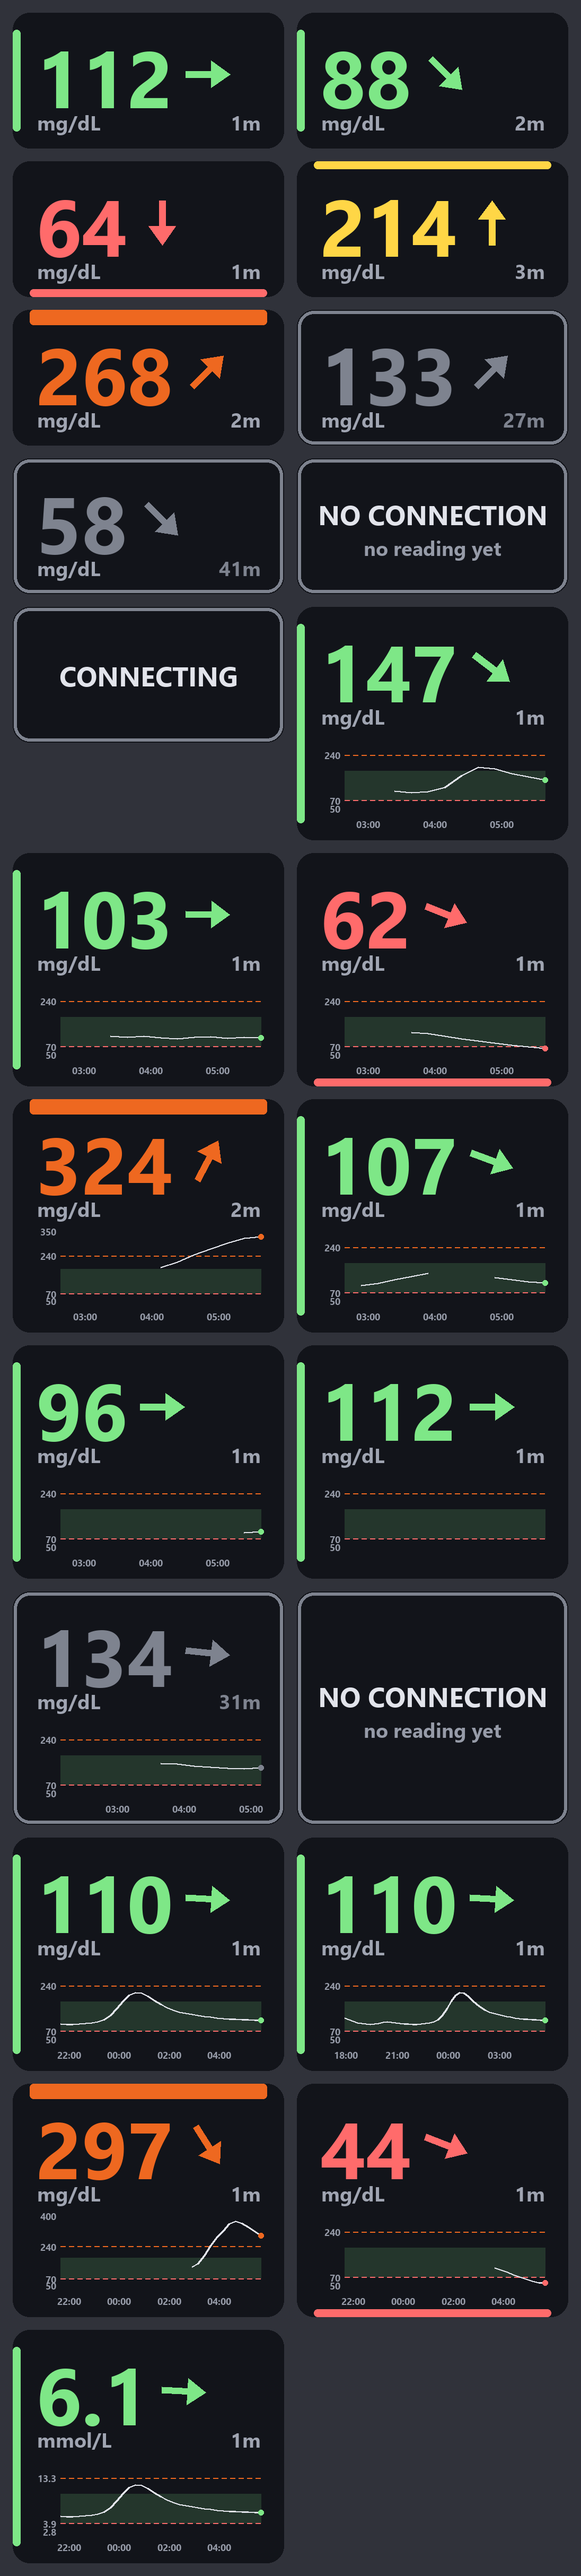
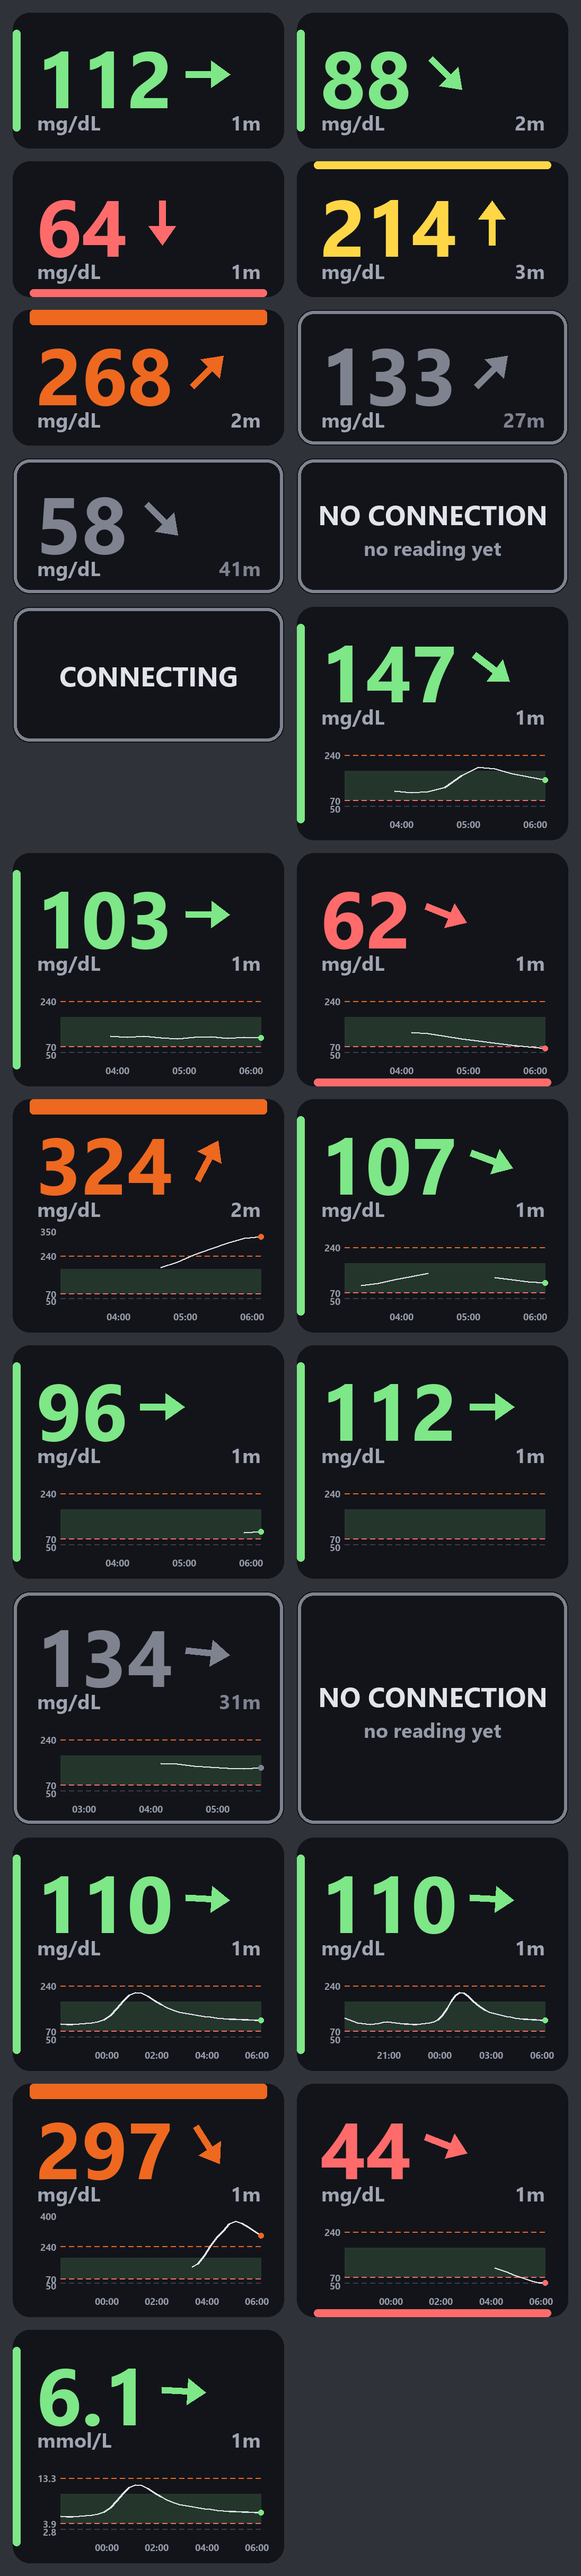
feat: join the trace across the publication lag, and rule the floor
**The break in front of the newest point was not a scanning gap.** One
response carries both the current measurement and the history, and they
are not equally fresh: measured against the live API just now,
`graphData`'s newest entry was timestamped 18 minutes before
`glucoseMeasurement` in the same body. NOTES.md has seen 30. That is the
service publishing a sample into the array late -- the reading sitting
at the end of the gap is the proof the sensor was reading throughout it
-- so past 30 minutes the general "do not draw what was not measured"
rule was breaking the line over data that had been measured.

It is joined now, for that one gap only, and only up to an hour. The
bound is there because a phone that really stopped scanning looks
identical from this end, and joining across an afternoon would draw a
straight line through one. Interior gaps are untouched.

**The floor gets a gridline**, in a colour quiet enough to be scenery:
it says where the scale starts, which is worth being able to see and
not worth noticing. It is the first of what will eventually be one
every AXIS_STEP_MGDL.

diff --git a/src/cgm/face/graph.py b/src/cgm/face/graph.py
@@ -23,7 +23,9 @@ obvious alternative lies:
     of that, because those are the two the band alone does not mark.
   - **The line breaks across gaps** rather than spanning them. A joined
     line over a stretch the sensor was not scanning draws data that was
-    never measured.
+    never measured. The newest point is the exception, because the gap
+    in front of it is the service publishing late rather than the sensor
+    not reading -- see LAST_GAP_MIN.
   - **The X axis is only as long as the data**, when asked for all of
     it. A window drawn wider than the history behind it is empty space
     that looks like a sensor that stopped rather than one that has not
@@ -54,6 +56,24 @@ from datetime import datetime, timedelta
 # number is repeated here rather than imported because cgm.face imports
 # nothing from cgm.core; tests/test_graph.py holds the two in step.
 MAX_GAP_MIN = 30.0
+
+# The exception to that rule, and it applies to the newest point only.
+#
+# One response carries both the current measurement and the history, but
+# they are not equally fresh: graphData's newest entry trails
+# glucoseMeasurement, by eighteen minutes when this was last measured
+# and by thirty in NOTES.md. That trailing distance is how long the
+# service takes to publish a sample into the array, not a stretch the
+# sensor was not scanning -- the reading at the end of it exists, which
+# is the proof it was scanning throughout. So the last point is joined
+# across a gap that would break the line anywhere else.
+#
+# Bounded, because the two cases do look alike from here. If the phone
+# really stopped scanning for hours, graphData stops and so does the
+# measurement, and joining across that would draw a straight line
+# through an afternoon nobody measured. An hour is well past any
+# publication lag seen and well short of a gap worth drawing.
+LAST_GAP_MIN = 60.0
 
 # The trace is deliberately not the status colour. The digits, the arrow
 # and the marker all say what the reading is *now*; colouring an hour of
@@ -94,11 +114,17 @@ AXIS_FLOOR_MGDL = 50.0
 # as the value of whatever the highest sample happened to be.
 AXIS_STEP_MGDL = 50.0
 
-# The dashed threshold lines. A dash long enough to read as a line and a
+# The dashed reference lines. A dash long enough to read as a line and a
 # gap wide enough that it does not read as a solid one.
 DASH_ON = 9
 DASH_OFF = 7
 DASH_WIDTH = 2
+
+# Gridlines: the floor for now, and eventually one every AXIS_STEP_MGDL.
+# Quiet enough to be scenery -- a scale you can measure against when you
+# look for it, and not something competing with the trace or with the
+# two lines that actually mean something.
+GRID_COLOR = (58, 62, 74)
 
 # What the time axis is allowed to step by, in minutes, smallest first.
 # The first one that fits the span in MAX_TIME_TICKS intervals wins, so
@@ -185,12 +211,23 @@ def recent(points, window_min: float, now: datetime) -> list:
     return [p for p in points if cutoff <= p.at <= now]
 
 
-def segments(points, max_gap_min: float = MAX_GAP_MIN) -> list[list]:
+def segments(
+    points,
+    max_gap_min: float = MAX_GAP_MIN,
+    last_gap_min: float = LAST_GAP_MIN,
+) -> list[list]:
     """Split a series wherever the sensor stopped reporting.
 
     Each returned run is a stretch that may be joined up. A run of one
     is legal and means a single measurement with nothing either side of
     it close enough to connect to.
+
+    The newest point is the exception. It is the current measurement,
+    folded into the series by `_parse_graph_data` because graphData
+    stops short of it, and the distance back to graphData's own newest
+    entry is publication lag rather than missing data -- see
+    LAST_GAP_MIN. It is joined across up to that much, and left stranded
+    beyond it.
     """
     runs: list[list] = []
     for point in points:
@@ -198,6 +235,14 @@ def segments(points, max_gap_min: float = MAX_GAP_MIN) -> list[list]:
             runs[-1].append(point)
         else:
             runs.append([point])
+
+    # Only ever one point can be stranded this way: it is the one the
+    # series was extended with, and everything before it came out of the
+    # same array at the same resolution.
+    if len(runs) > 1 and len(runs[-1]) == 1:
+        newest, previous = runs[-1][0], runs[-2][-1]
+        if (newest.at - previous.at).total_seconds() / 60 <= last_gap_min:
+            runs[-2].append(runs.pop()[0])
     return runs
 
 
@@ -296,6 +341,12 @@ def draw_sparkline(
         (left, y_for(theme.high_mgdl), right, y_for(theme.low_mgdl)),
         fill=(*_mix(card[:3], theme.color_in_range, BAND_TINT), card[3]),
     )
+
+    # The floor. A gridline rather than a threshold: it means "the scale
+    # starts here", which is worth being able to see and not worth
+    # noticing. One day there will be one of these every
+    # AXIS_STEP_MGDL; this is the first.
+    _dashed_line(draw, y_for(floor), left, right, GRID_COLOR)
 
     # The two levels a reading is not supposed to be on the wrong side
     # of. The band already marks low_mgdl as its own lower edge, but a

diff --git a/tests/test_graph.py b/tests/test_graph.py
@@ -24,7 +24,9 @@ from cgm.core.librelink import GRAPH_RESOLUTION_MIN, GlucosePoint, Reading
 from cgm.face.graph import (
     AXIS_FLOOR_MGDL,
     AXIS_STEP_MGDL,
+    GRID_COLOR,
     HEAD_RADIUS,
+    LAST_GAP_MIN,
     MAX_GAP_MIN,
     MAX_TIME_TICKS,
     TRACE_COLOR,
@@ -215,7 +217,12 @@ class Segments(unittest.TestCase):
         self.assertEqual(len(segments(points)), 1)
 
     def test_just_past_the_threshold_breaks(self):
-        points = series((MAX_GAP_MIN + 1, 100), (0, 110))
+        # Three points, so the break is an interior one. A break in
+        # front of the newest point is the publication lag and is
+        # treated separately -- see PublicationLag below.
+        points = series(
+            (MAX_GAP_MIN + 71, 100), (MAX_GAP_MIN + 1, 104), (15, 108), (0, 110)
+        )
         self.assertEqual(len(segments(points)), 2)
 
     def test_every_point_survives_the_split(self):
@@ -225,6 +232,44 @@ class Segments(unittest.TestCase):
 
     def test_nothing_splits_into_nothing(self):
         self.assertEqual(segments([]), [])
+
+
+class PublicationLag(unittest.TestCase):
+    """The gap in front of the newest point is not a scanning gap.
+
+    One response carries both the current measurement and the history,
+    and they are not equally fresh: graphData's newest entry trails
+    glucoseMeasurement by a quarter of an hour or more. The reading at
+    the end of that gap exists, which is the proof the sensor was
+    reading throughout it, so the line is joined across -- up to a
+    bound, because a phone that really stopped scanning looks the same
+    from here and joining across an afternoon would draw one.
+    """
+
+    def test_the_newest_point_is_joined_across_the_lag(self):
+        # The last gap is 40 minutes, which breaks the line anywhere else.
+        points = series((55, 100), (40, 104), (0, 112))
+        self.assertEqual(len(segments(points)), 1)
+
+    def test_a_gap_past_the_bound_leaves_it_stranded(self):
+        points = series((LAST_GAP_MIN + 16, 100), (LAST_GAP_MIN + 1, 104), (0, 112))
+        runs = segments(points)
+        self.assertEqual([[p.mgdl for p in run] for run in runs], [[100, 104], [112]])
+
+    def test_the_bound_itself_still_joins(self):
+        points = series((LAST_GAP_MIN + 15, 100), (LAST_GAP_MIN, 104), (0, 112))
+        self.assertEqual(len(segments(points)), 1)
+
+    def test_an_interior_gap_is_still_a_gap(self):
+        # Only the newest point gets the exception. A hole in the middle
+        # of the night is missing data however fresh the reading is.
+        points = series((240, 96), (225, 99), (30, 104), (0, 112))
+        runs = segments(points)
+        self.assertEqual([[p.mgdl for p in run] for run in runs], [[96, 99], [104, 112]])
+
+    def test_the_exception_can_be_switched_off(self):
+        points = series((55, 100), (40, 104), (0, 112))
+        self.assertEqual(len(segments(points, last_gap_min=0)), 2)
 
 
 class CanvasSize(unittest.TestCase):
@@ -327,6 +372,18 @@ class Drawing(unittest.TestCase):
         # Screen Y grows downwards, so the low line is the lower one.
         self.assertGreater(
             min(y for _, y in low), max(y for _, y in very_high)
+        )
+
+    def test_the_floor_gets_a_line_of_its_own(self):
+        # It says where the scale starts. Quiet, because that is worth
+        # being able to see and not worth noticing.
+        self.sparkline(())
+        floor = self.coloured(GRID_COLOR)
+        self.assertTrue(floor, "the floor has no line")
+        # Below both thresholds, because it is the bottom of the axis.
+        self.assertGreater(
+            min(y for _, y in floor),
+            max(y for _, y in self.coloured(THEME.color_low)),
         )
 
     def test_the_threshold_lines_are_dashed_and_not_solid(self):

diff --git a/README.md b/README.md
@@ -560,6 +560,19 @@ What it draws, and why each of these is a rule rather than a preference:
 - **The line breaks across gaps rather than spanning them.** A stretch
   where the phone was not scanning gets no line drawn through it,
   because a line there would be measurements that were never taken.
+- **Except in front of the newest point.** One response carries both the
+  current measurement and the history, but they are not equally fresh:
+  `graphData`'s newest entry trails `glucoseMeasurement` — 18 minutes
+  when this was last measured against the live API, and 30 in
+  `NOTES.md`. That is the service publishing a sample into the array
+  late, not the sensor failing to read, and the proof is the reading
+  sitting at the end of the gap. So the last point is joined across it,
+  up to an hour. Past an hour it is left stranded, because a phone that
+  really stopped scanning looks identical from here and joining across
+  an afternoon would draw one that never happened.
+- **The floor gets a quiet gridline**, saying where the scale starts.
+  Eventually there will be one every 50 mg/dL in that colour; this is
+  the first of them.
 - **`low_mgdl` and `very_high_mgdl` each get a dashed line**, in the
   colour the face turns at that level — red below, deep orange above.
   They are the two the band does not mark: its lower edge is `low_mgdl`,

diff --git a/NOTES.md b/NOTES.md
@@ -50,6 +50,13 @@ Nothing has exercised these yet. Each says how to check it.
   minute a minute, a 45 minute window -- the floor -- fell back at a
   lag of 30, and 60 held on to 45. Check the lag before suspecting
   `GRAPH_RESOLUTION_MIN`.
+
+  The sparkline shows the same lag from the other side. Past 30 minutes
+  it exceeded `MAX_GAP_MIN` and the trace broke in front of the newest
+  point, which looked like a fault and was not one; `LAST_GAP_MIN` now
+  joins that one gap up to an hour. So a break there again means a lag
+  over an hour, which nothing has yet seen, and is worth measuring
+  rather than assuming.
 - **The sparkline on a controller.** `graph.in_vr` has never been run on
   a headset; everything below was decided at a desk with `--window`. It
   grows the card from 512x256 to 512x404, and the overlay is sized by
